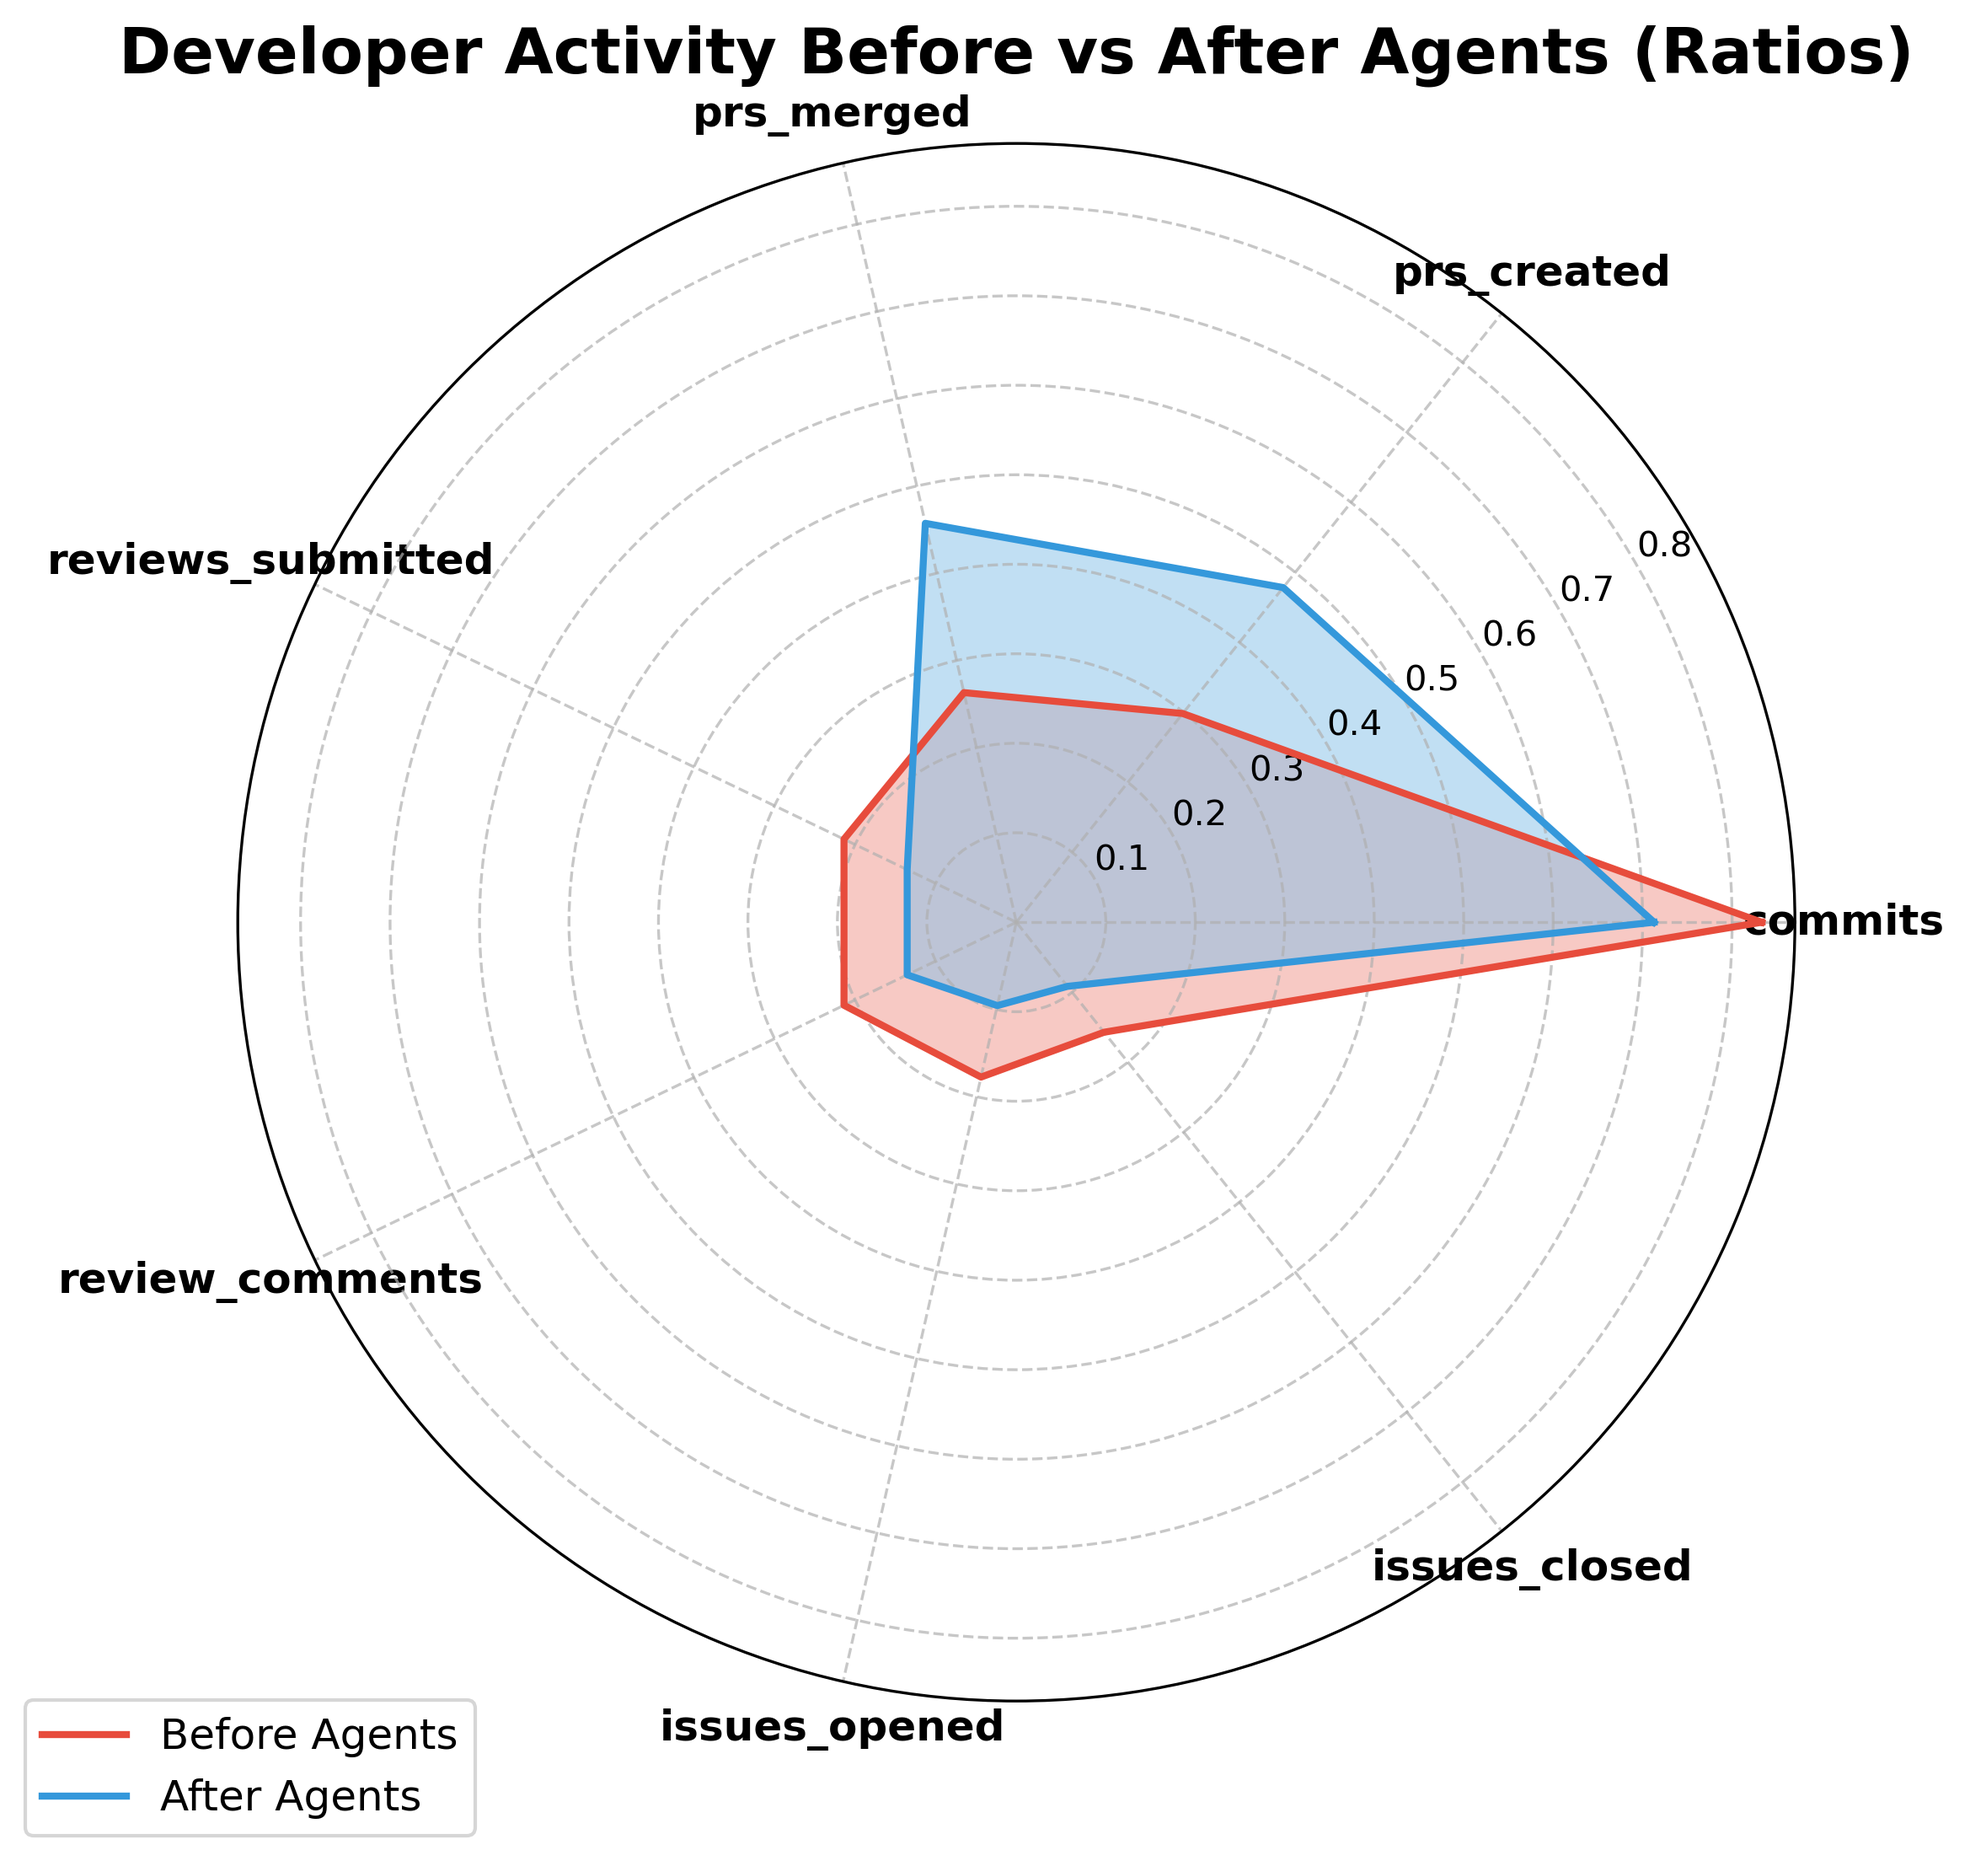
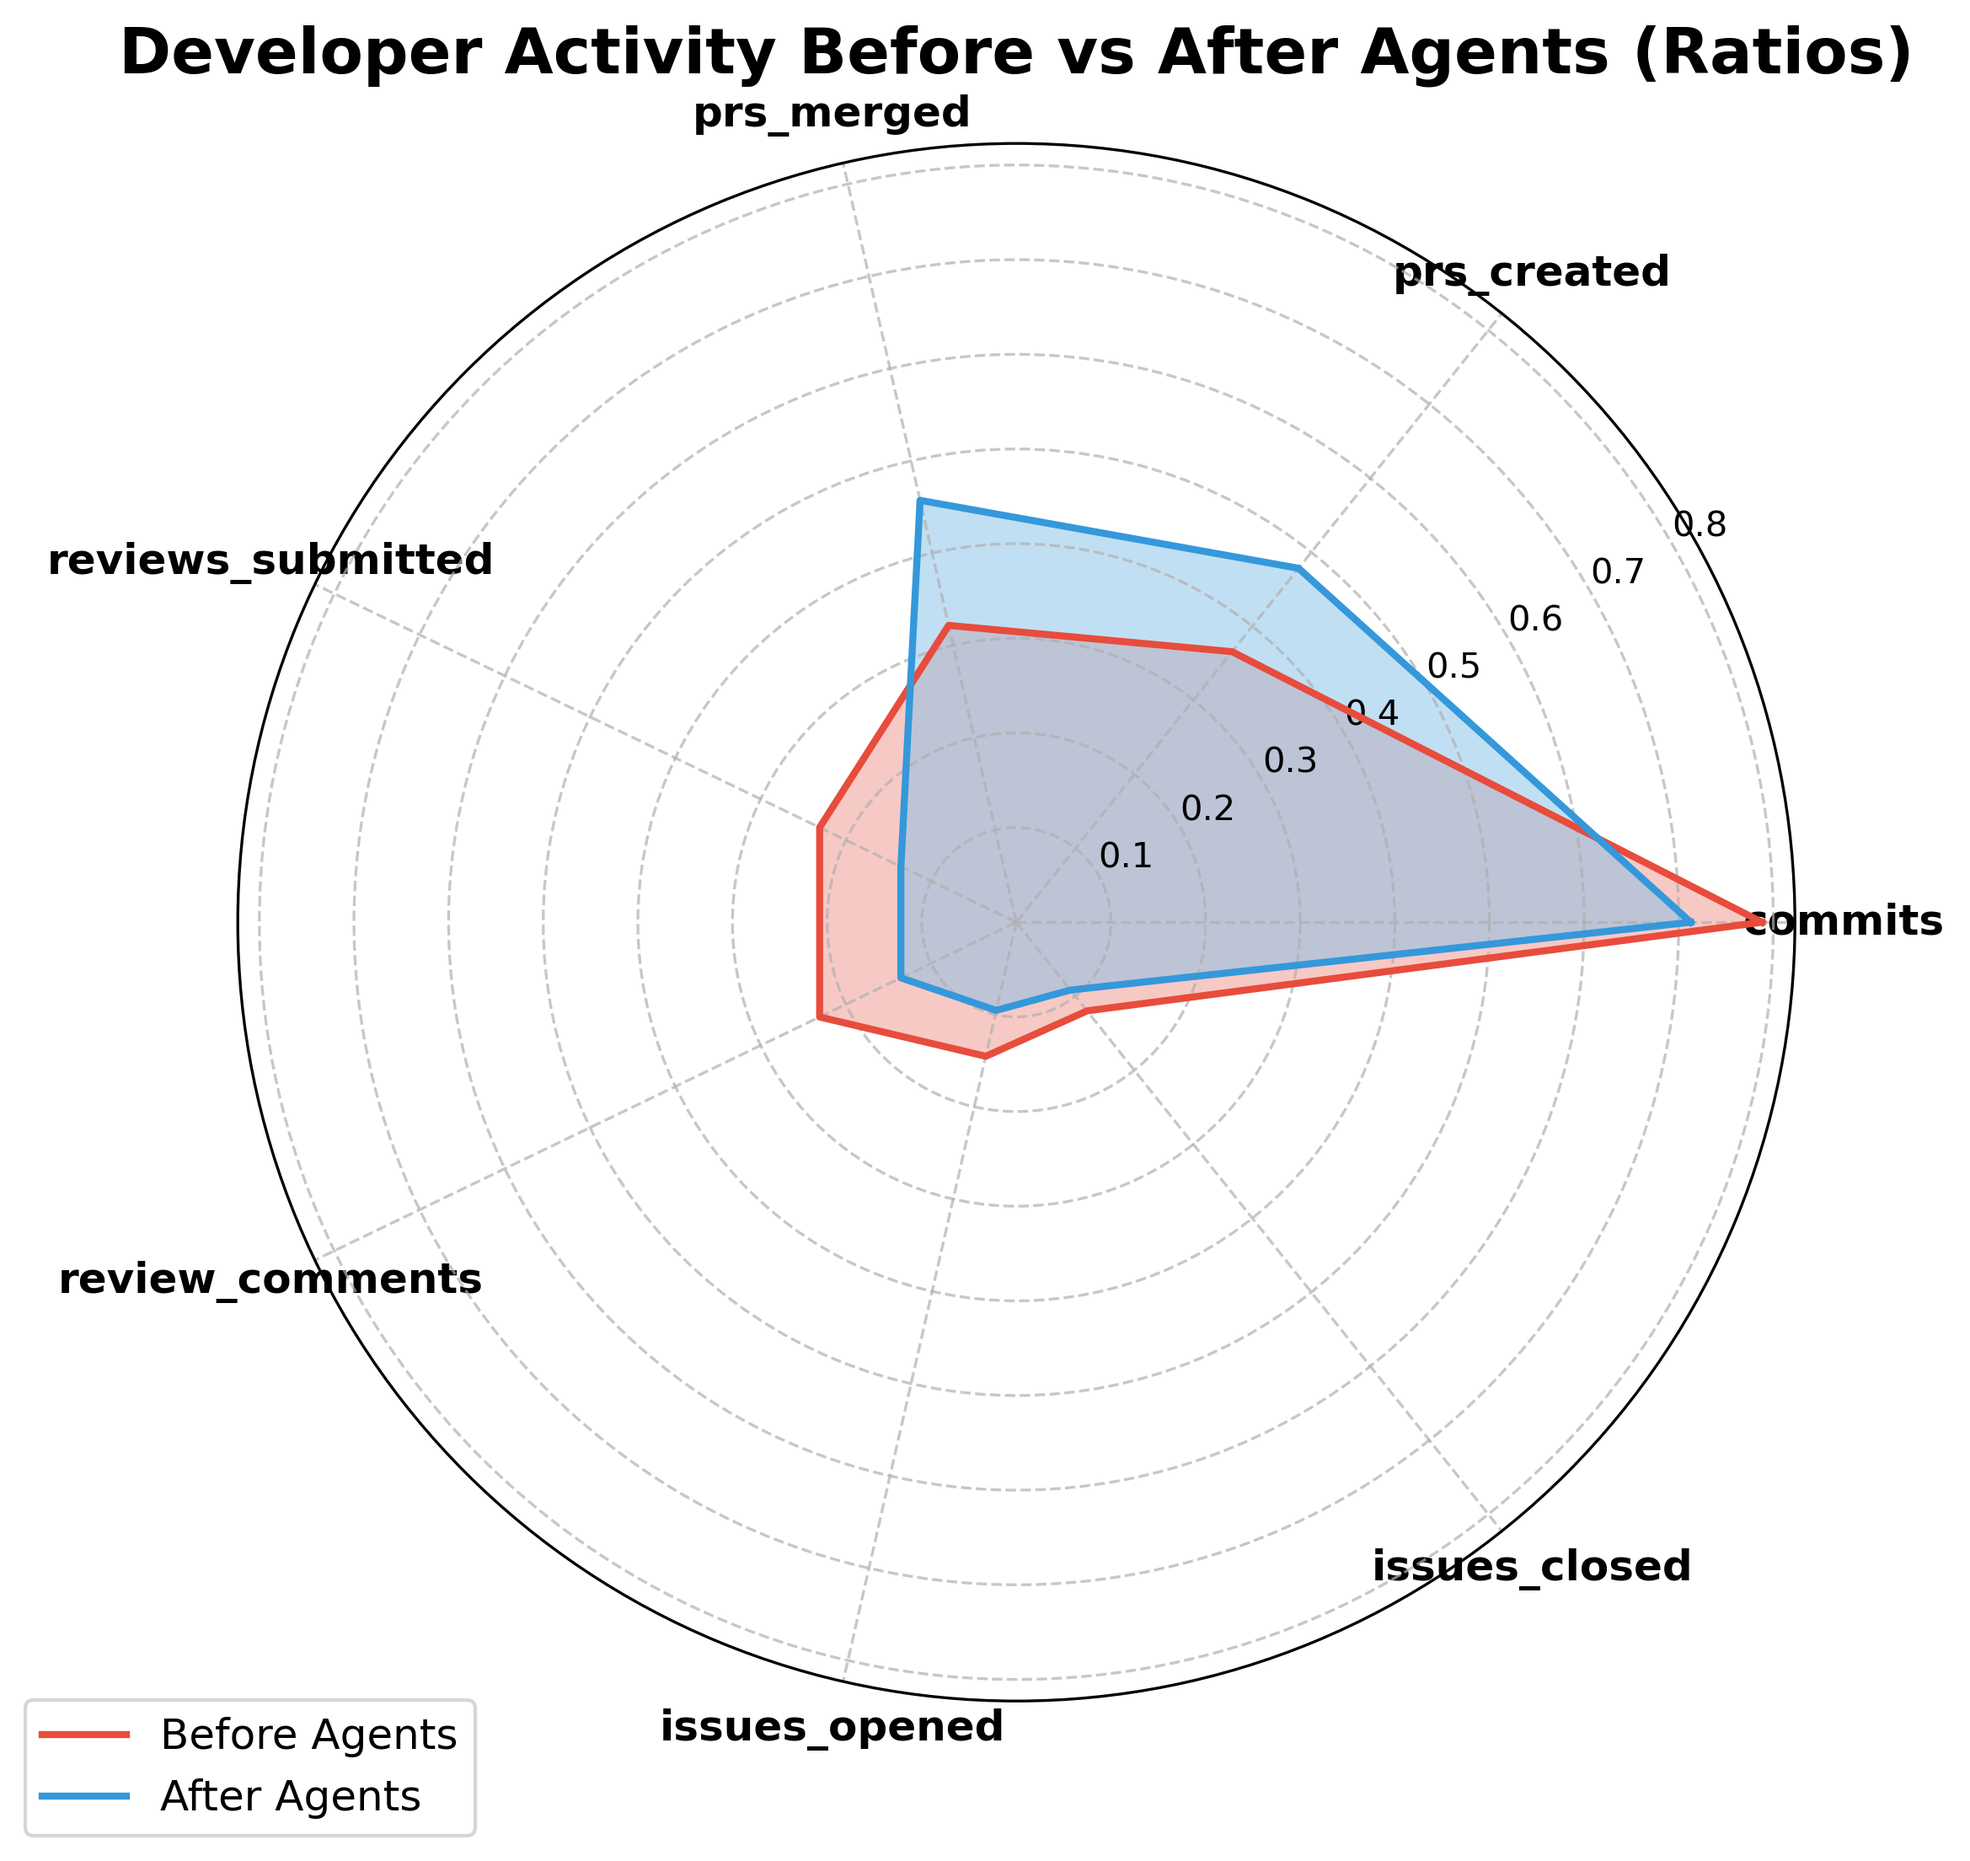
added linreg

Changed region(s): [[0.4059, 0.25, 0.9055, 0.5938], [0.8118, 0.2812, 0.8743, 0.3125]]

diff --git a/scripts/analysis/pokemon_stats_:)_.py b/scripts/analysis/pokemon_stats_:)_.py
@@ -29,48 +29,6 @@ METRIC_MAP = {
     "issues_closed": ("issues", "issue_closed"),
 }
 
-def compute_monthly_avg_ratios(data, metric_name, scale_before=False):
-    """
-    Compute per-author-per-month sums scaled by active authors,
-    then compute the sum across months and express as a fraction of the total actions.
-    """
-    key, subtype = METRIC_MAP[metric_name]
-    df_before = data[f"{key}_before"].copy()
-    df_after = data[f"{key}_after"].copy()
-
-    if subtype:
-        df_before = df_before[df_before["activity_type"] == subtype]
-        df_after = df_after[df_after["activity_type"] == subtype]
-
-    def per_month_scaled(df, scale=True):
-        if df.empty:
-            return 0.0
-        df = df.copy()
-        df["month"] = df["date"].dt.to_period("M").dt.to_timestamp()
-        grouped = df.groupby(["author", "month"]).size().reset_index(name="count")
-        if not scale:
-            return grouped["count"].sum()
-        # scale by active authors per month
-        month_totals = grouped.groupby("month")["count"].sum()
-        month_authors = grouped.groupby("month")["author"].nunique()
-        scaled_per_month = month_totals / month_authors
-        # sum over months with activity
-        return scaled_per_month.sum()
-
-    total_before = sum(per_month_scaled(data[f"{k}_before"].copy(), scale=True)
-                       for k, _ in METRIC_MAP.values())
-    total_after = sum(per_month_scaled(data[f"{k}_after"].copy(), scale=True)
-                      for k, _ in METRIC_MAP.values())
-
-    before_val = per_month_scaled(df_before, scale=scale_before)
-    after_val = per_month_scaled(df_after, scale=True)
-
-    # Convert to ratio of total actions
-    before_ratio = before_val / total_before if total_before > 0 else 0.0
-    after_ratio = after_val / total_after if total_after > 0 else 0.0
-    return before_ratio, after_ratio
-
-
 def build_radar_data_ratios(data):
     before = {}
     after = {}
@@ -100,11 +58,6 @@ def build_radar_data_ratios(data):
 
     return before, after
 
-
-import seaborn as sns
-
-import seaborn as sns
-
 def plot_radar(before, after, title, filename):
     labels = list(before.keys())
     N = len(labels)
@@ -121,7 +74,7 @@ def plot_radar(before, after, title, filename):
     plt.figure(figsize=(8, 8))
     ax = plt.subplot(111, polar=True)
 
-    # Apply sqrt scaling for visual balance
+    # Apply sqrt scaling for visual balance (optional but often helps ratios)
     values_before_scaled = [np.sqrt(v) for v in values_before]
     values_after_scaled = [np.sqrt(v) for v in values_after]
 
@@ -157,6 +110,36 @@ def plot_radar(before, after, title, filename):
 
 def main():
     data = load_all()
+
+    # =========================================================
+    # ✂ TIME SLICING: LIMIT 'BEFORE' DATA TO LAST 3 YEARS
+    # =========================================================
+    print("Applying 3-year filter to 'Before' datasets...")
+    
+    # Iterate over all keys in the data dictionary
+    for key in data:
+        # We only want to filter the 'before' datasets
+        if key.endswith("_before"):
+            df = data[key]
+            
+            # Ensure it has a date column and isn't empty
+            if df.empty or "date" not in df.columns:
+                continue
+
+            # Convert to datetime just in case
+            df["date"] = pd.to_datetime(df["date"])
+
+            # Find the end of this specific dataset
+            before_end = df["date"].max()
+            
+            # Calculate 3 years prior
+            cutoff_date = before_end - pd.DateOffset(years=3)
+
+            # Apply the filter IN PLACE within the dictionary
+            data[key] = df[df["date"] >= cutoff_date]
+    
+    # =========================================================
+
     before, after = build_radar_data_ratios(data)
 
     # Plot radar
@@ -172,12 +155,8 @@ def main():
         "Before (Ratio)": [f"{v:.3f}" for v in before.values()],
         "After (Ratio)":  [f"{v:.3f}" for v in after.values()]
     })
-    print("\nDeveloper Activity Ratios (Before vs After Agents):\n")
+    print("\nDeveloper Activity Ratios (Before vs After Agents) - [Last 3 Years Only]:\n")
     print(ratio_df.to_string(index=False))
-
-
-   
-
 
 if __name__ == "__main__":
     main()

diff --git a/scripts/analysis/rq1_lin_reg.py b/scripts/analysis/rq1_lin_reg.py
@@ -1,0 +1,135 @@
+from pathlib import Path
+import numpy as np
+import pandas as pd
+from data_loader import load_all
+from sklearn.linear_model import LinearRegression
+from scipy import stats
+
+ROOT = Path(__file__).resolve().parents[2]
+
+METRICS = [
+    "commits",
+    "prs_created",
+    "prs_merged",
+    "reviews_submitted",
+    "review_comments",
+    "issues_opened",
+    "issues_closed",
+]
+
+METRIC_MAP = {
+    "commits": ("commits", None),
+    "prs_created": ("pull_requests", "pr_created"),
+    "prs_merged": ("pull_requests", "pr_merged"),
+    "reviews_submitted": ("reviews", None),
+    "review_comments": ("review_comments", None),
+    "issues_opened": ("issues", "issue_opened"),
+    "issues_closed": ("issues", "issue_closed"),
+}
+
+def build_daily_cumulative(df):
+    df = df.copy()
+    # 1. Count events per day
+    daily_counts = df.groupby("day").size()
+
+    # 2. Fill in missing days with 0
+    full_idx = pd.date_range(start=daily_counts.index.min(), 
+                             end=daily_counts.index.max(), 
+                             freq='D')
+
+    daily = daily_counts.reindex(full_idx, fill_value=0).reset_index(name="count")
+    
+    # 3. Numeric time and Cumulative Sum
+    daily["t"] = np.arange(len(daily))
+    daily["cumulative"] = daily["count"].cumsum()
+
+    return daily 
+
+def calculate_stats(df_before, df_after, label):
+    # --- 1. Get Velocity (Slope) ---
+    def get_slope(df):
+        X = df[["t"]].values
+        y = df["cumulative"].values
+        model = LinearRegression().fit(X, y)
+        return model.coef_[0]
+
+    slope_b = get_slope(df_before)
+    slope_a = get_slope(df_after)
+    
+    # --- 2. Get Statistical Significance (Daily Counts) ---
+    group1 = df_before["count"].values
+    group2 = df_after["count"].values
+
+    if len(group1) < 3 or len(group2) < 3:
+        return {"Metric": label, "Error": "insufficient_data"}
+
+    # Mann-Whitney U Test (P-Value)
+    u_stat, p_value = stats.mannwhitneyu(group2, group1, alternative='two-sided')
+
+    # Cohen's d (Effect Size)
+    n1, n2 = len(group1), len(group2)
+    var1, var2 = np.var(group1, ddof=1), np.var(group2, ddof=1)
+    pooled_se = np.sqrt(((n1 - 1) * var1 + (n2 - 1) * var2) / (n1 + n2 - 2))
+    cohens_d = (np.mean(group2) - np.mean(group1)) / pooled_se if pooled_se > 0 else 0
+
+    return {
+        "Metric": label,
+        "Slope Before": slope_b,
+        "Slope After": slope_a,
+        "P-Value": p_value,
+        "Effect Size (d)": cohens_d
+    }
+
+def main():
+    data = load_all()
+    results = []
+
+    for metric in METRICS:
+        key, subtype = METRIC_MAP[metric]
+
+        df_b = data[f"{key}_before"].copy()
+        df_a = data[f"{key}_after"].copy()
+
+        if subtype:
+            df_b = df_b[df_b["activity_type"] == subtype]
+            df_a = df_a[df_a["activity_type"] == subtype]
+
+        # limit to last 3 years of 'Before' data
+        df_b["date"] = pd.to_datetime(df_b["date"])
+        df_b["day"] = df_b["date"].dt.floor("D")
+        
+        df_a["date"] = pd.to_datetime(df_a["date"])
+        df_a["day"] = df_a["date"].dt.floor("D")
+
+        # Find the end of the 'Before' period
+        before_end = df_b["date"].max()
+        
+        # Calculate the cutoff date (3 years prior to the end)
+        cutoff_date = before_end - pd.DateOffset(years=3)
+    
+        # Apply the filter
+        df_b = df_b[df_b["date"] >= cutoff_date]
+   
+        # Safety: Ensure we didn't delete everything
+        if df_b.empty:
+            continue
+
+        # ---------------------------------------------------------
+
+        cum_before = build_daily_cumulative(df_b)
+        cum_after  = build_daily_cumulative(df_a)
+
+        results.append(calculate_stats(cum_before, cum_after, metric))
+
+    results_df = pd.DataFrame(results)
+
+    print("\n================ METRIC VELOCITY (Last 3 Years) =================\n")
+    
+    pd.options.display.float_format = '{:.4f}'.format
+    pd.options.display.max_columns = 10
+    pd.options.display.width = 1000
+    
+    print(results_df.to_string(index=False))
+
+if __name__ == "__main__":
+    main()

diff --git a/test.py b/test.py
@@ -1,17 +1,5 @@
 import pandas as pd
+for x in range (0,10):
+    print(x)
 
-AIDEV_REPO_PATH = "/Users/lukas./Desktop/CMPUT660Project/inputs/processed/commits_before.parquet"
-
-# Load the full Parquet file
-repo_df = pd.read_parquet(AIDEV_REPO_PATH)
-
-# Inspect the first few rows
-print(repo_df.head())
-
-# Optional: get summary info
-print(repo_df.info())
-print(repo_df.columns)
-print(f"Total rows: {len(repo_df)}")
-unique_repos_count = repo_df['author'].nunique()
-print(unique_repos_count)
-
+print(x)
